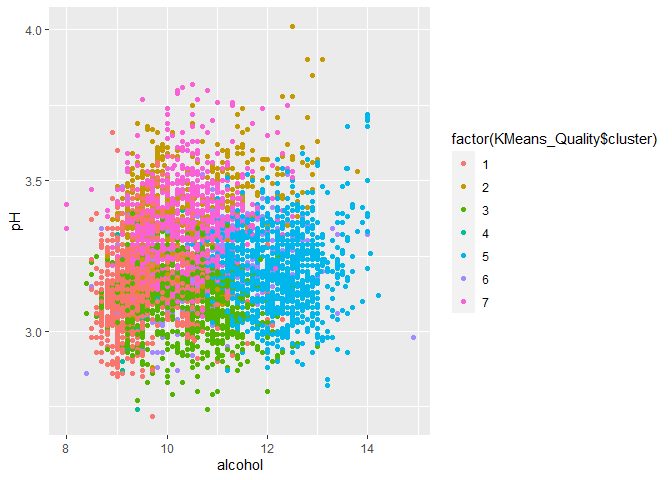
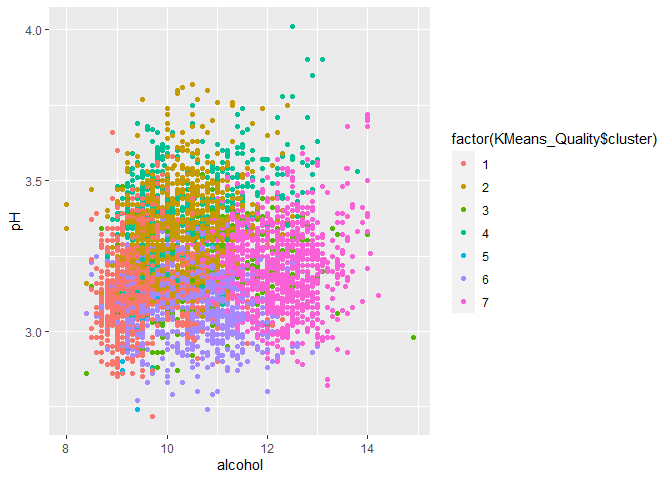
md fix again

diff --git a/Homework-4/PS4.md b/Homework-4/PS4.md
@@ -65,6 +65,10 @@ the clusters and they are not related to the actual quality of wine.
 Clustering is not a good method to determine the quality of wine
 especially when considering only the chemical properties of wine.
 
+    ## Warning: did not converge in 10 iterations
+
+    ## Warning: did not converge in 10 iterations
+
 ![](PS4_files/figure-markdown_strict/q1_kmeans3-1.png)![](PS4_files/figure-markdown_strict/q1_kmeans3-2.png)
 
 ### PCA
@@ -383,8 +387,6 @@ most common items, meaning that we are not really capturing an
 association, but rather just a result of this dual commonality, as seen
 below.
 
-    itemFrequencyPlot(grocerytrans, topN=10,  cex.names=1)
-
 ![](PS4_files/figure-markdown_strict/unnamed-chunk-11-1.png)
 
 If we are using this data analysis for a practical purpose, such as
@@ -396,15 +398,9 @@ rules which are true less than 50% of the time. Therefore, we can rerun
 the apriori function with support = 0.01 and confidence = 0.5:
 
 ![](PS4_files/figure-markdown_strict/unnamed-chunk-12-1.png)![](PS4_files/figure-markdown_strict/unnamed-chunk-12-2.png)![](PS4_files/figure-markdown_strict/unnamed-chunk-12-3.png)
+
 We do have much less rules, however, the rules that remain are
 applicable to a larger portion of shoppers and are more strongly true,
 and are therefore more relevant to application
 
-    subrules = head(groceryrules2, n=10, by="lift")
-    plot(subrules, method = "graph", engine = "htmlwidget")
-
-![](PS4_files/figure-markdown_strict/unnamed-chunk-13-1.png)
-
-    plot(subrules, method="paracoord")
-
-![](PS4_files/figure-markdown_strict/unnamed-chunk-13-2.png)
+![](PS4_files/figure-markdown_strict/unnamed-chunk-14-1.png)![](PS4_files/figure-markdown_strict/unnamed-chunk-14-2.png)
